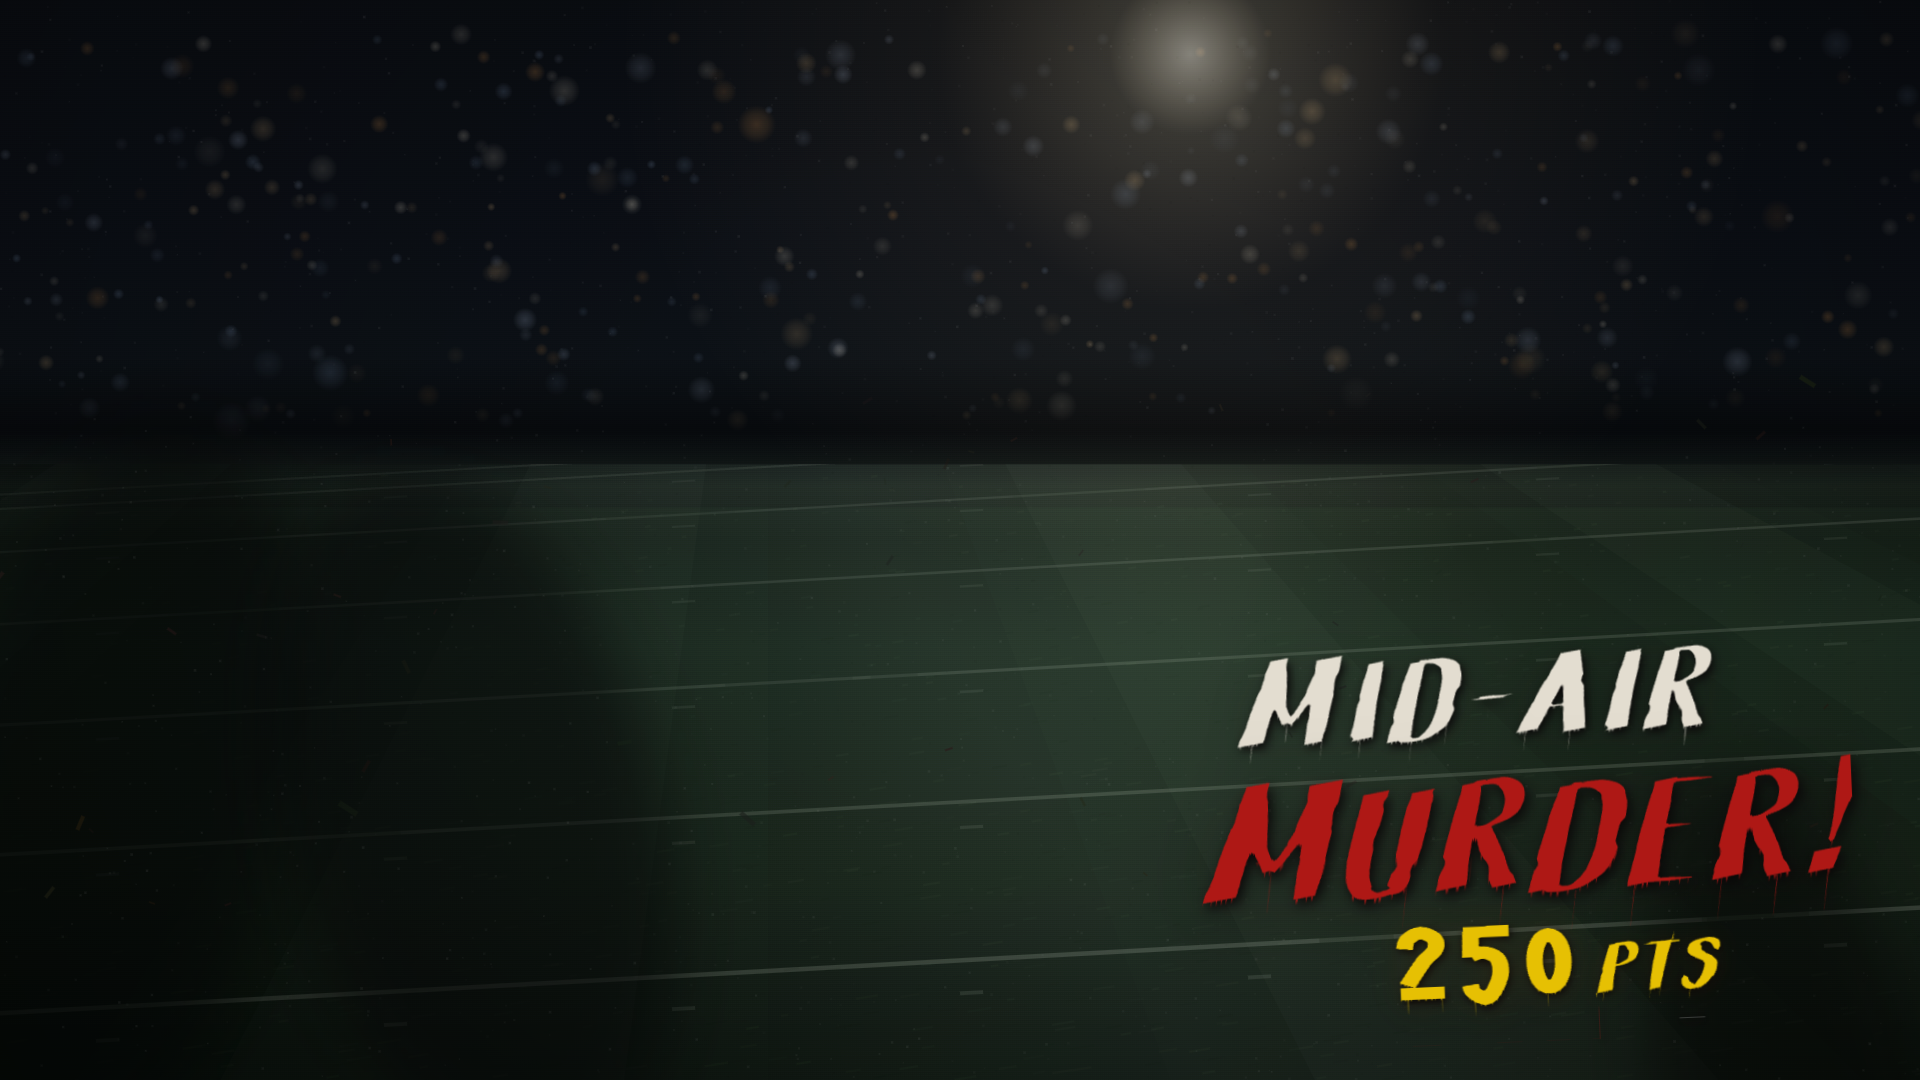
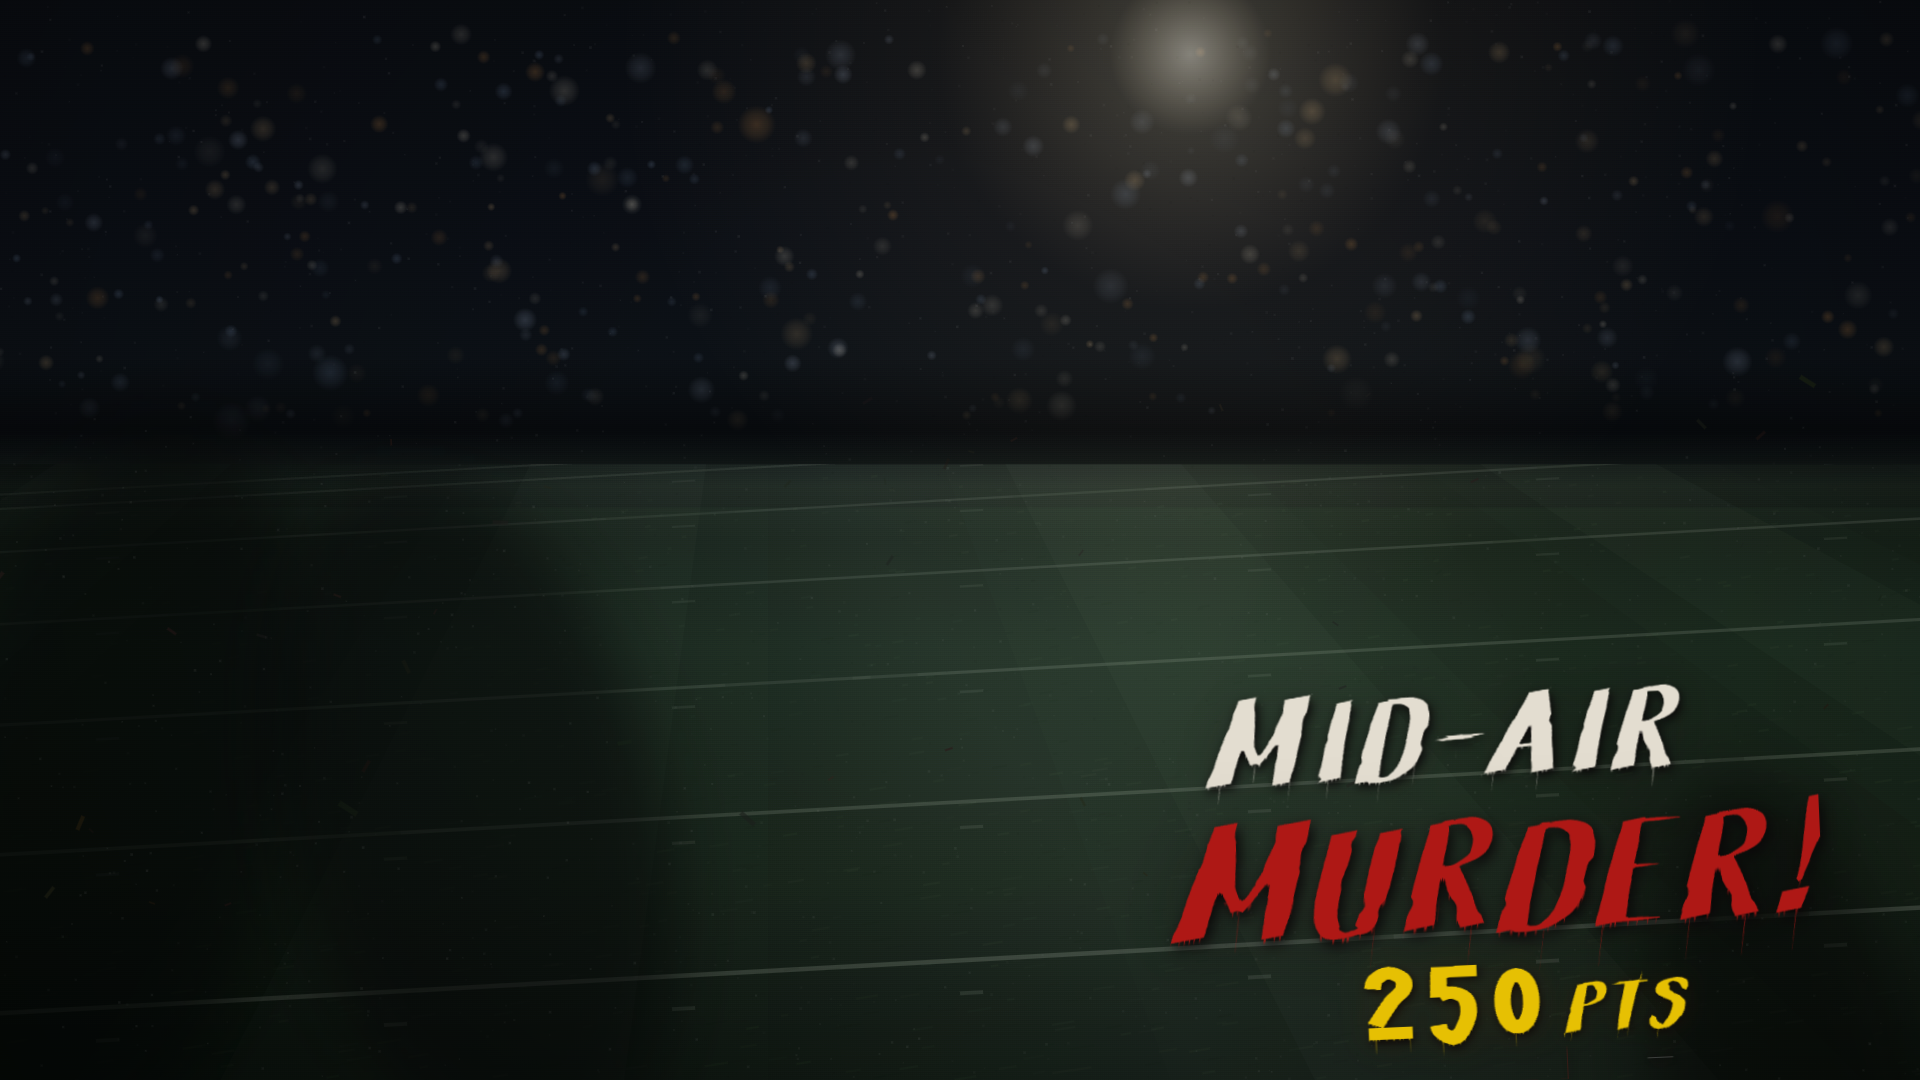
hud-overlay round 2: re-measured against the bar with meter row masked

Changed region(s): [[0.5938, 0.5806, 0.9688, 0.9778]]

diff --git a/src/pieces/score-callout/ink.js b/src/pieces/score-callout/ink.js
@@ -330,7 +330,7 @@ export function inkMask(faces, spec) {
   // LETTER, so it is sampled here and the tails are added afterwards.
   const q = 0.26, iq = 1 / q;
   const blurH = capH * 0.30;
-  const mb = Math.ceil(blurH * q * 1.9) + 2;
+  const mb = Math.ceil(blurH * q * 1.6) + 2;
   const sw = Math.max(8, Math.round(W * q) + mb * 2), sh = Math.max(8, Math.round(H * q) + mb * 2);
   const A = exact(0, sw, sh);
   A.ctx.drawImage(M.cv, 0, 0, W, H, mb, mb, W * q, H * q);
@@ -459,43 +459,48 @@ export function inkPaint(target, faces, spec, st) {
   const dw = sw * iq, dh = sh * iq;
 
   /* ---------------------------------------------- 1. shadow + halo + glow */
-  // All three come off the same quarter-scale silhouette `A`, on EXACT-sized canvases so
-  // ctx.filter costs the ~25k pixels it is actually blurring instead of the pool's
-  // largest line. `A` is still white here; each pass tints its own blurred copy.
+  // Both shadow passes come off the same quarter-scale silhouette `A`, are ASSEMBLED ON
+  // A CANVAS THAT IS ALSO QUARTER SCALE, and reach the plate as ONE scaled blit.
+  //
+  // That last part is the whole point. A blur target is 25k pixels, but a blit of it onto
+  // the plate is (W + 2*margin) x (H + 2*margin) = ~310k — by a distance the most
+  // expensive operation left in this file. Round 1 did four of them per line (halo twice,
+  // shadow twice); the compounded-alpha rewrite got that to two; assembling at quarter
+  // scale gets it to one. Every canvas here is EXACT-sized, because ctx.filter costs the
+  // whole SURFACE in Chromium, not the drawn rectangle.
   const shA = spec.shadow === undefined ? 1 : spec.shadow;
   if (shA > 0) {
+    const SH = exact(1, sw, sh);
+    const B = exact(2, sw, sh);
     const haA = spec.halo === undefined ? 1 : spec.halo;
     if (haA > 0) {
-      const Bh = exact(1, sw, sh);
-      Bh.ctx.filter = `blur(${Math.max(1, blurH * q).toFixed(2)}px)`;
-      Bh.ctx.drawImage(A.cv, 0, 0, sw, sh, 0, 0, sw, sh);
-      Bh.ctx.filter = 'none';
-      Bh.ctx.globalCompositeOperation = 'source-in';
-      Bh.ctx.fillStyle = `rgb(${SHADOW_RGB})`;
-      Bh.ctx.fillRect(0, 0, sw, sh);
-      // ONE draw at the compounded alpha, not two at half. A blit of the halo is a
-      // full-plate scaled composite — the most expensive single operation left in the
-      // file — and 1-(1-0.34)^2 = 0.564 is the same picture for half the fill rate.
-      target.save();
-      target.globalAlpha = 0.42 * haA;
-      target.drawImage(Bh.cv, 0, 0, sw, sh, dx - mx + capH * 0.02, dy - mx + capH * 0.07, dw, dh);
-      target.restore();
+      B.ctx.filter = `blur(${Math.max(1, blurH * q).toFixed(2)}px)`;
+      B.ctx.drawImage(A.cv, 0, 0, sw, sh, 0, 0, sw, sh);
+      B.ctx.filter = 'none';
+      B.ctx.globalCompositeOperation = 'source-in';
+      B.ctx.fillStyle = `rgb(${SHADOW_RGB})`;
+      B.ctx.fillRect(0, 0, sw, sh);
+      // 0.42 in one draw, not 0.34 twice. Round 1's compounded 0.564 put a dark band
+      // exactly where the tails hang and the gaps between the filaments read as the mark.
+      SH.ctx.globalAlpha = 0.42 * haA;
+      SH.ctx.drawImage(B.cv, 0, 0, sw, sh, capH * 0.02 * q, capH * 0.07 * q, sw, sh);
     }
-    const Bt = exact(2, sw, sh);
-    Bt.ctx.filter = `blur(${Math.max(0.8, capH * 0.055 * q).toFixed(2)}px)`;
-    Bt.ctx.drawImage(A.cv, 0, 0, sw, sh, 0, 0, sw, sh);
-    Bt.ctx.filter = 'none';
-    Bt.ctx.globalCompositeOperation = 'source-in';
-    Bt.ctx.fillStyle = `rgb(${SHADOW_RGB})`;
-    Bt.ctx.fillRect(0, 0, sw, sh);
-    target.save();
-    target.globalAlpha = 0.986 * shA;
-    target.drawImage(Bt.cv, 0, 0, sw, sh, dx - mx + capH * 0.026, dy - mx + capH * 0.050, dw, dh);
-    target.restore();
+    const B2 = exact(3, sw, sh);
+    B2.ctx.filter = `blur(${Math.max(0.8, capH * 0.055 * q).toFixed(2)}px)`;
+    B2.ctx.drawImage(A.cv, 0, 0, sw, sh, 0, 0, sw, sh);
+    B2.ctx.filter = 'none';
+    B2.ctx.globalCompositeOperation = 'source-in';
+    B2.ctx.fillStyle = `rgb(${SHADOW_RGB})`;
+    B2.ctx.fillRect(0, 0, sw, sh);
+    SH.ctx.globalAlpha = 0.986 * shA;
+    SH.ctx.drawImage(B2.cv, 0, 0, sw, sh, capH * 0.026 * q, capH * 0.050 * q, sw, sh);
+    SH.ctx.globalAlpha = 1;
+
+    target.drawImage(SH.cv, 0, 0, sw, sh, dx - mx, dy - mx, dw, dh);
   }
 
   if (spec.glow) {
-    const G = exact(3, sw, sh);
+    const G = exact(2, sw, sh);
     G.ctx.filter = `blur(${Math.max(1, capH * (spec.glow.blur === undefined ? 0.24 : spec.glow.blur) * q).toFixed(2)}px)`;
     G.ctx.drawImage(A.cv, 0, 0, sw, sh, 0, 0, sw, sh);
     G.ctx.filter = 'none';

diff --git a/src/pieces/score-callout/lockup.js b/src/pieces/score-callout/lockup.js
@@ -68,12 +68,21 @@ export const GEO = {
                       //   any of the overflow comes off its cap height.
 };
 
-/** Per-line ink recipes. Kept here so the whole look is legible in one place. */
+/**
+ * Per-line ink recipes. Kept here so the whole look is legible in one place.
+ *
+ * slimY — the thick/thin contrast lever — is on LINE 2 ONLY. It costs a fixed 2 px off
+ * every horizontal, so what matters is the cap it is spent against, and line 1 is the
+ * SMALL line: on the hostile sheet (k 0.74) line 1 lands at cap 61 and 2 px took the arm
+ * off the T, so "WHAT A" captured as "WHAI A" in all four tiles. Line 2 at its smallest
+ * shipped scale is cap 84 and CATCH! survives it; below cap 100 the erosion rounds to
+ * zero on its own. This is the same trap round 1 documented and it is real.
+ */
 const INK = {
-  line1: { tracking: 0.090, xScale: 1.44, minor: 0.930, slimX: 0.014, slimY: 0.009, fray: 0.62, halo: 0.70, jitter: 0.9 },
+  line1: { tracking: 0.090, xScale: 1.44, minor: 0.930, slimX: 0.014, fray: 0.62, halo: 0.70, jitter: 0.9 },
   line2: { tracking: 0.034, xScale: 1.46, minor: 0.885, slimX: 0.017, slimY: 0.010, fray: 1.0, jitter: 0.85 },
   num: { tracking: 0.030, xScale: 1.45, minor: 1, excl: 1, slimX: 0.013, fray: 0.55, jitter: 0.45 },
-  pts: { tracking: 0.055, xScale: 1.45, minor: 1, slimX: 0.011, slimY: 0.008, fray: 0.55, jitter: 0.5 },
+  pts: { tracking: 0.055, xScale: 1.45, minor: 1, slimX: 0.011, fray: 0.55, jitter: 0.5 },
 };
 
 function accentFor(state) {
@@ -171,10 +180,9 @@ export function beginLockup(faces, state, opts) {
   const top = (l1 ? y1 + l1.top : y2 + (l2 ? l2.top : 0)) - CC * 0.18;
   const bot = (ln ? yNum + ln.bot : y2 + (l2 ? l2.bot : 0)) + CC * 0.18;
 
-  // Padding covers the drop shadow and the 0.34-cap halo, and nothing else. Round 1 used
-  // 1.15C x 1.05C, roughly 40% of the plate's area spent on empty pixels.
   // Room for the halo and nothing else. The halo blur is 0.30 cap and its visible reach
-  // is about 1.5x that, so 0.56 x 0.46 cap clears it. Round 1 used 1.15 x 1.05.
+  // is about 1.5x that, so 0.56 x 0.46 cap clears it. Round 1 used 1.15 x 1.05, roughly
+  // 40% of the plate's area spent on empty pixels — and the plate is blitted every frame.
   const padX = Math.ceil(CC * 0.56);
   const padY = Math.ceil(CC * 0.46);
   const W = Math.ceil(halfW * 2 + padX * 2);

diff --git a/src/pieces/score-callout/sheets.js b/src/pieces/score-callout/sheets.js
@@ -203,13 +203,17 @@ function hostileSheet(c2d, t, state, ui) {
 /* ------------------------------------------------------------------ table */
 
 const SHEETS = {
+  // The two hero sheets pose the lockup at the SHIPPING anchor, so a critic's A/B against
+  // panel-truck / panel-midair_hit measures the placement the game actually uses. The
+  // numbers are duplicated from index.js rather than imported because index.js imports
+  // this file; ANCHOR_X / ANCHOR_Y and these two must move together.
   iso_callout_hero: heroSheet('night', {
     line1: 'MID-AIR', line2: 'MURDER!', pts: 250, accent: 'red', age: 0.30,
-    x: 1524, y: 995, scale: 1,
+    x: 1492, y: 1035, scale: 1,
   }),
   iso_callout_truck: heroSheet('nightWarm', {
     line1: '', line2: 'TRUCK!', pts: 150, accent: 'gold', age: 0.30,
-    x: 1524, y: 995, scale: 1,
+    x: 1492, y: 1035, scale: 1,
   }),
   iso_callouts: fiveSheet,
   iso_callout_anim: animSheet,
